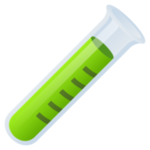
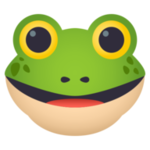
chore: replace 🧪 mascot with Froggy 🐸 (#141)
Froggy has escaped the test tube! It's time for our final mascot update.

diff --git a/README.md b/README.md
@@ -1,7 +1,7 @@
 <div align="center">
   <h1>Testing-Playground</h1>
   
-  [![test-tube](./docs/icon.png)][emojione]
+  [![test-tube](./public/icon.png)][emojione]
 
 Simple and complete DOM testing playground that encourage good testing
 practices.
@@ -13,7 +13,9 @@ practices.
 <hr />
 
 <!-- ALL-CONTRIBUTORS-BADGE:START - Do not remove or modify this section -->
+
 [![All Contributors](https://img.shields.io/badge/all_contributors-8-orange.svg?style=flat-square)](#contributors-)
+
 <!-- ALL-CONTRIBUTORS-BADGE:END -->
 
 **Playground for [testing-library/dom]**
@@ -120,6 +122,7 @@ Thanks goes to these people ([emoji key][emojis]):
 
 <!-- markdownlint-enable -->
 <!-- prettier-ignore-end -->
+
 <!-- ALL-CONTRIBUTORS-LIST:END -->
 
 This project follows the [all-contributors][all-contributors] specification.
